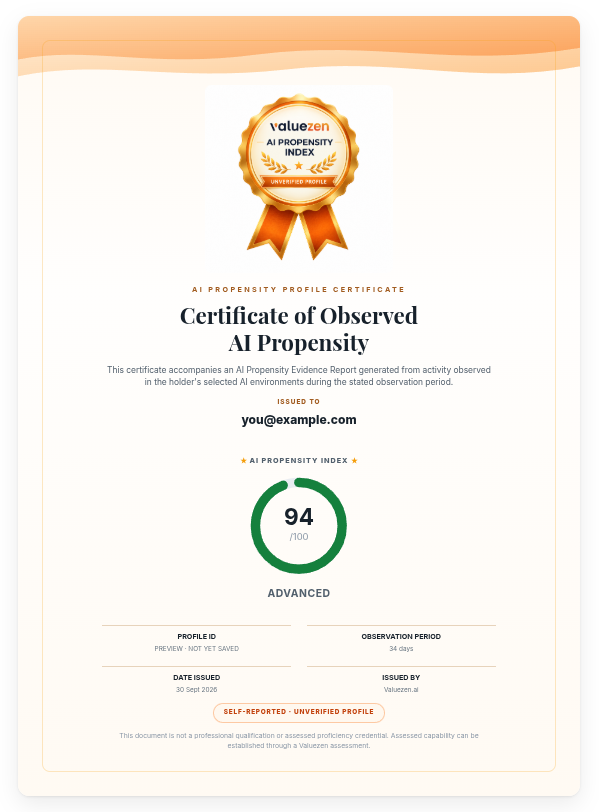
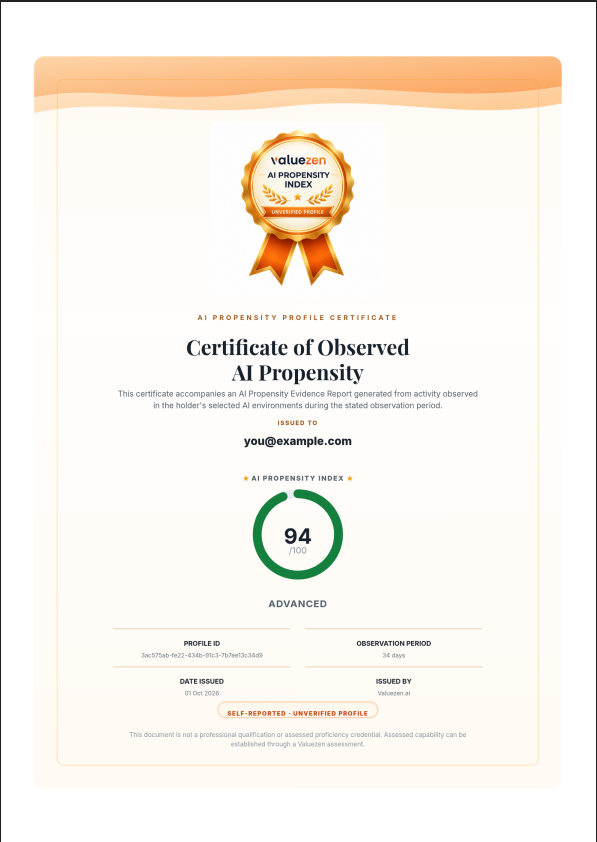
added report samples

Changed region(s): [[0.0, 0.0, 1.0, 1.0], [0.1809, 0.3387, 0.8141, 0.7389], [0.2111, 0.7389, 0.8141, 0.9236]]

diff --git a/README.md b/README.md
@@ -111,13 +111,15 @@ If you want this running automatically in the background instead of typing `sync
 
 ## 🏅 What you get
 
-After you upload your file, Valuezen generates your **AI Propensity Index** report along with a shareable **Certificate of Observed AI Propensity**:
+After you upload your file, Valuezen generates your **AI Propensity Index** report — a per-capability **evidence breakdown** plus a shareable **Certificate of Observed AI Propensity**, included on the report itself:
 
 <div align="center">
 
-<img src="docs/assets/certificate-sample.png" alt="Sample Certificate of Observed AI Propensity showing an AI Propensity Index of 94/100, Advanced" width="420">
+<img src="docs/assets/report-sample.png" alt="Sample AI Propensity Report showing an AI Propensity Index of 94/100, Advanced, with a breakdown by capability area" width="400">
+<img src="docs/assets/evidence-sample.png" alt="Sample Propensity Evidence page showing capability areas, event counts, and activity over time" width="400">
+<img src="docs/assets/certificate-sample.png" alt="Sample Certificate of Observed AI Propensity showing an AI Propensity Index of 94/100, Advanced" width="400">
 
-*Sample certificate — illustrative values only.*
+*Sample report pages, including the evidence breakdown and certificate — illustrative values only.*
 
 </div>
 
